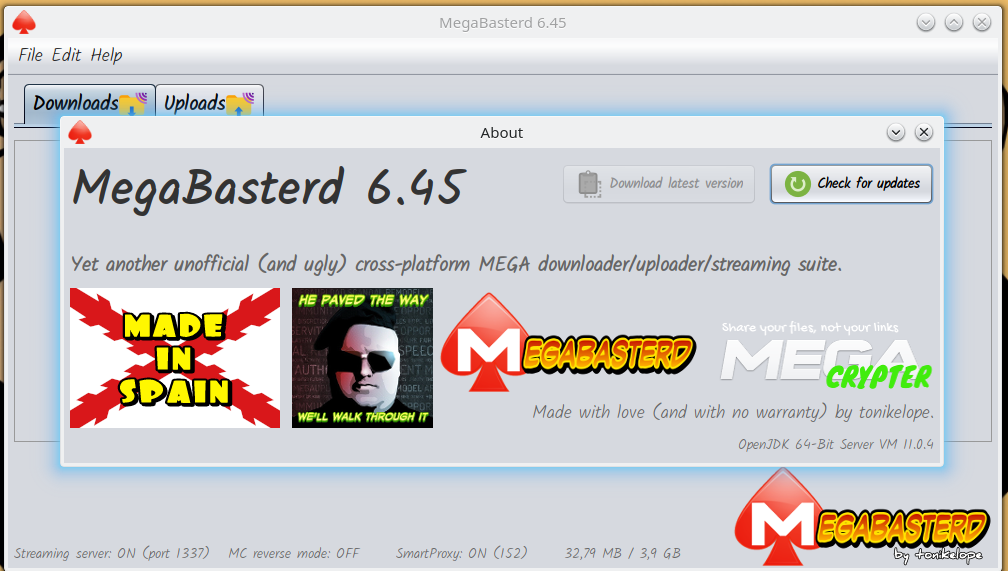
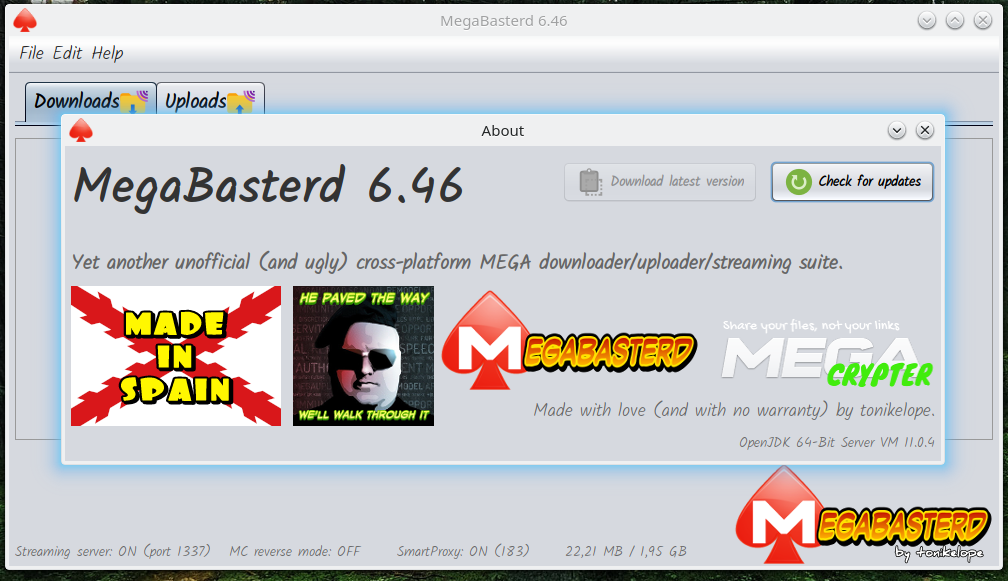
6.46
-MAC GENERATOR CBC MAC status warning

(cherry picked from commit 1559d0ac3098a7ad06edebd87bcd35bbd6e7951b)
(cherry picked from commit ca53316d76fa284cbf27e7a369877bdaf3da8a34)

Changed region(s): [[0.0, 0.0, 1.0, 1.0]]

diff --git a/src/main/java/com/tonikelope/megabasterd/UploadMACGenerator.java b/src/main/java/com/tonikelope/megabasterd/UploadMACGenerator.java
@@ -107,17 +107,33 @@ public final class UploadMACGenerator implements Runnable, SecureSingleThreadNot
                     long tot = 0L;
                     int[] chunk_mac = new int[4];
                     byte[] byte_block = new byte[16];
+                    boolean upload_finished = false;
 
                     try {
                         while (!_exit && !_upload.isStopped() && !_upload.getMain_panel().isExit()) {
 
+                            if (!upload_finished && _upload.getProgress() == _upload.getFile_size()) {
+
+                                _upload.getView().printStatusNormal("Finishing calculating CBC-MAC code (this could take a while) ... ***DO NOT EXIT MEGABASTERD NOW***");
+
+                                _upload.getView().getPause_button().setVisible(false);
+                                _upload.getMain_panel().getGlobal_dl_speed().detachTransference(_upload);
+                                _upload.getView().getSpeed_label().setVisible(false);
+                                _upload.getView().getSlots_label().setVisible(false);
+                                _upload.getView().getSlot_status_label().setVisible(false);
+                                _upload.getView().getSlots_spinner().setVisible(false);
+
+                                upload_finished = true;
+
+                            }
+
                             int reads;
 
-                            long chunk_offset = ChunkManager.calculateChunkOffset(chunk_id, 1);
+                            long chunk_offset = ChunkWriteManager.calculateChunkOffset(chunk_id, 1);
 
-                            long chunk_size = ChunkManager.calculateChunkSize(chunk_id, _upload.getFile_size(), chunk_offset, 1);
+                            long chunk_size = ChunkWriteManager.calculateChunkSize(chunk_id, _upload.getFile_size(), chunk_offset, 1);
 
-                            ChunkManager.checkChunkID(chunk_id, _upload.getFile_size(), chunk_offset);
+                            ChunkWriteManager.checkChunkID(chunk_id, _upload.getFile_size(), chunk_offset);
 
                             try {
 

diff --git a/src/main/java/com/tonikelope/megabasterd/Download.java b/src/main/java/com/tonikelope/megabasterd/Download.java
@@ -79,7 +79,7 @@ public final class Download implements Transference, Runnable, SecureSingleThrea
     private volatile boolean _pause;
     private final ConcurrentLinkedQueue<Long> _partialProgressQueue;
     private volatile long _progress;
-    private ChunkManager _chunkmanager;
+    private ChunkWriteManager _chunkmanager;
     private String _last_download_url;
     private boolean _provision_ok;
     private boolean _finishing_download;
@@ -291,7 +291,7 @@ public final class Download implements Transference, Runnable, SecureSingleThrea
         _pause = pause;
     }
 
-    public ChunkManager getChunkmanager() {
+    public ChunkWriteManager getChunkmanager() {
         return _chunkmanager;
     }
 
@@ -594,7 +594,7 @@ public final class Download implements Transference, Runnable, SecureSingleThrea
 
                             if (_use_slots) {
 
-                                _chunkmanager = new ChunkManager(this);
+                                _chunkmanager = new ChunkWriteManager(this);
 
                                 _thread_pool.execute(_chunkmanager);
 
@@ -1326,11 +1326,11 @@ public final class Download implements Transference, Runnable, SecureSingleThrea
             try {
                 while (!_exit) {
 
-                    long chunk_offset = ChunkManager.calculateChunkOffset(chunk_id, 1);
+                    long chunk_offset = ChunkWriteManager.calculateChunkOffset(chunk_id, 1);
 
-                    long chunk_size = ChunkManager.calculateChunkSize(chunk_id, this.getFile_size(), chunk_offset, 1);
+                    long chunk_size = ChunkWriteManager.calculateChunkSize(chunk_id, this.getFile_size(), chunk_offset, 1);
 
-                    ChunkManager.checkChunkID(chunk_id, this.getFile_size(), chunk_offset);
+                    ChunkWriteManager.checkChunkID(chunk_id, this.getFile_size(), chunk_offset);
 
                     tot += chunk_size;
 

diff --git a/src/main/java/com/tonikelope/megabasterd/ChunkWriteManager.java b/src/main/java/com/tonikelope/megabasterd/ChunkWriteManager.java
@@ -18,7 +18,7 @@ import javax.crypto.NoSuchPaddingException;
  *
  * @author tonikelope
  */
-public final class ChunkManager implements Runnable, SecureSingleThreadNotifiable {
+public final class ChunkWriteManager implements Runnable, SecureSingleThreadNotifiable {
 
     public static long calculateChunkOffset(long chunk_id, int size_multi) {
         long[] offs = {0, 128, 384, 768, 1280, 1920, 2688};
@@ -67,7 +67,7 @@ public final class ChunkManager implements Runnable, SecureSingleThreadNotifiabl
     private boolean _notified;
     private final String _chunks_dir;
 
-    public ChunkManager(Download downloader) throws Exception {
+    public ChunkWriteManager(Download downloader) throws Exception {
         _notified = false;
         _exit = false;
         _download = downloader;
@@ -147,7 +147,7 @@ public final class ChunkManager implements Runnable, SecureSingleThreadNotifiabl
         try {
             MiscTools.deleteDirectoryRecursion(Paths.get(getChunks_dir()));
         } catch (IOException ex) {
-            Logger.getLogger(ChunkManager.class.getName()).log(Level.SEVERE, null, ex);
+            Logger.getLogger(ChunkWriteManager.class.getName()).log(Level.SEVERE, null, ex);
         }
     }
 
@@ -227,6 +227,6 @@ public final class ChunkManager implements Runnable, SecureSingleThreadNotifiabl
 
         LOG.log(Level.INFO, "{0} Chunkmanager: bye bye{1}", new Object[]{Thread.currentThread().getName(), _download.getFile().getName()});
     }
-    private static final Logger LOG = Logger.getLogger(ChunkManager.class.getName());
+    private static final Logger LOG = Logger.getLogger(ChunkWriteManager.class.getName());
 
 }

diff --git a/src/main/java/com/tonikelope/megabasterd/ChunkDownloader.java b/src/main/java/com/tonikelope/megabasterd/ChunkDownloader.java
@@ -144,13 +144,13 @@ public class ChunkDownloader implements Runnable, SecureSingleThreadNotifiable {
 
                 long chunk_id = _download.nextChunkId();
 
-                long chunk_offset = ChunkManager.calculateChunkOffset(chunk_id, Download.CHUNK_SIZE_MULTI);
+                long chunk_offset = ChunkWriteManager.calculateChunkOffset(chunk_id, Download.CHUNK_SIZE_MULTI);
 
-                long chunk_size = ChunkManager.calculateChunkSize(chunk_id, _download.getFile_size(), chunk_offset, Download.CHUNK_SIZE_MULTI);
+                long chunk_size = ChunkWriteManager.calculateChunkSize(chunk_id, _download.getFile_size(), chunk_offset, Download.CHUNK_SIZE_MULTI);
 
-                ChunkManager.checkChunkID(chunk_id, _download.getFile_size(), chunk_offset);
+                ChunkWriteManager.checkChunkID(chunk_id, _download.getFile_size(), chunk_offset);
 
-                String chunk_url = ChunkManager.genChunkUrl(worker_url, _download.getFile_size(), chunk_offset, chunk_size);
+                String chunk_url = ChunkWriteManager.genChunkUrl(worker_url, _download.getFile_size(), chunk_offset, chunk_size);
 
                 if ((_current_smart_proxy != null || http_error == 509) && MainPanel.isUse_smart_proxy() && !MainPanel.isUse_proxy()) {
 

diff --git a/src/main/java/com/tonikelope/megabasterd/ChunkUploader.java b/src/main/java/com/tonikelope/megabasterd/ChunkUploader.java
@@ -122,13 +122,13 @@ public class ChunkUploader implements Runnable, SecureSingleThreadNotifiable {
 
                 chunk_id = _upload.nextChunkId();
 
-                long chunk_offset = ChunkManager.calculateChunkOffset(chunk_id, Upload.CHUNK_SIZE_MULTI);
+                long chunk_offset = ChunkWriteManager.calculateChunkOffset(chunk_id, Upload.CHUNK_SIZE_MULTI);
 
-                long chunk_size = ChunkManager.calculateChunkSize(chunk_id, _upload.getFile_size(), chunk_offset, Upload.CHUNK_SIZE_MULTI);
+                long chunk_size = ChunkWriteManager.calculateChunkSize(chunk_id, _upload.getFile_size(), chunk_offset, Upload.CHUNK_SIZE_MULTI);
 
-                ChunkManager.checkChunkID(chunk_id, _upload.getFile_size(), chunk_offset);
+                ChunkWriteManager.checkChunkID(chunk_id, _upload.getFile_size(), chunk_offset);
 
-                String chunk_url = ChunkManager.genChunkUrl(worker_url, _upload.getFile_size(), chunk_offset, chunk_size);
+                String chunk_url = ChunkWriteManager.genChunkUrl(worker_url, _upload.getFile_size(), chunk_offset, chunk_size);
 
                 URL url = new URL(chunk_url);
 

diff --git a/src/main/java/com/tonikelope/megabasterd/ChunkDownloaderMono.java b/src/main/java/com/tonikelope/megabasterd/ChunkDownloaderMono.java
@@ -52,11 +52,11 @@ public class ChunkDownloaderMono extends ChunkDownloader {
 
                 chunk_id = getDownload().nextChunkId();
 
-                long chunk_offset = ChunkManager.calculateChunkOffset(chunk_id, 1);
+                long chunk_offset = ChunkWriteManager.calculateChunkOffset(chunk_id, 1);
 
-                long chunk_size = ChunkManager.calculateChunkSize(chunk_id, getDownload().getFile_size(), chunk_offset, 1);
+                long chunk_size = ChunkWriteManager.calculateChunkSize(chunk_id, getDownload().getFile_size(), chunk_offset, 1);
 
-                ChunkManager.checkChunkID(chunk_id, getDownload().getFile_size(), chunk_offset);
+                ChunkWriteManager.checkChunkID(chunk_id, getDownload().getFile_size(), chunk_offset);
 
                 long chunk_reads = 0;
 

diff --git a/src/main/java/com/tonikelope/megabasterd/LabelTranslatorSingleton.java b/src/main/java/com/tonikelope/megabasterd/LabelTranslatorSingleton.java
@@ -36,6 +36,7 @@ public final class LabelTranslatorSingleton {
 
     private void Spanish() {
 
+        _addTranslation("Finishing calculating CBC-MAC code (this could take a while) ... ***DO NOT EXIT MEGABASTERD NOW***", "Terminando de calcular código CBC-MAC (esto podría llevar tiempo) ... ***NO CIERRES MEGABASTERD EN ESTE MOMENTO***");
         _addTranslation("Split content in different uploads", "Separar contenido en diferentes subidas");
         _addTranslation("Merge content in the same upload", "Juntar todo en la misma subida");
         _addTranslation("How do you want to proceed?", "¿Qué quieres hacer?");

diff --git a/src/main/java/com/tonikelope/megabasterd/MainPanel.java b/src/main/java/com/tonikelope/megabasterd/MainPanel.java
@@ -50,7 +50,7 @@ import javax.swing.UIManager;
  */
 public final class MainPanel {
 
-    public static final String VERSION = "6.45";
+    public static final String VERSION = "6.46";
     public static final int THROTTLE_SLICE_SIZE = 16 * 1024;
     public static final int DEFAULT_BYTE_BUFFER_SIZE = 16 * 1024;
     public static final int STREAMER_PORT = 1337;
